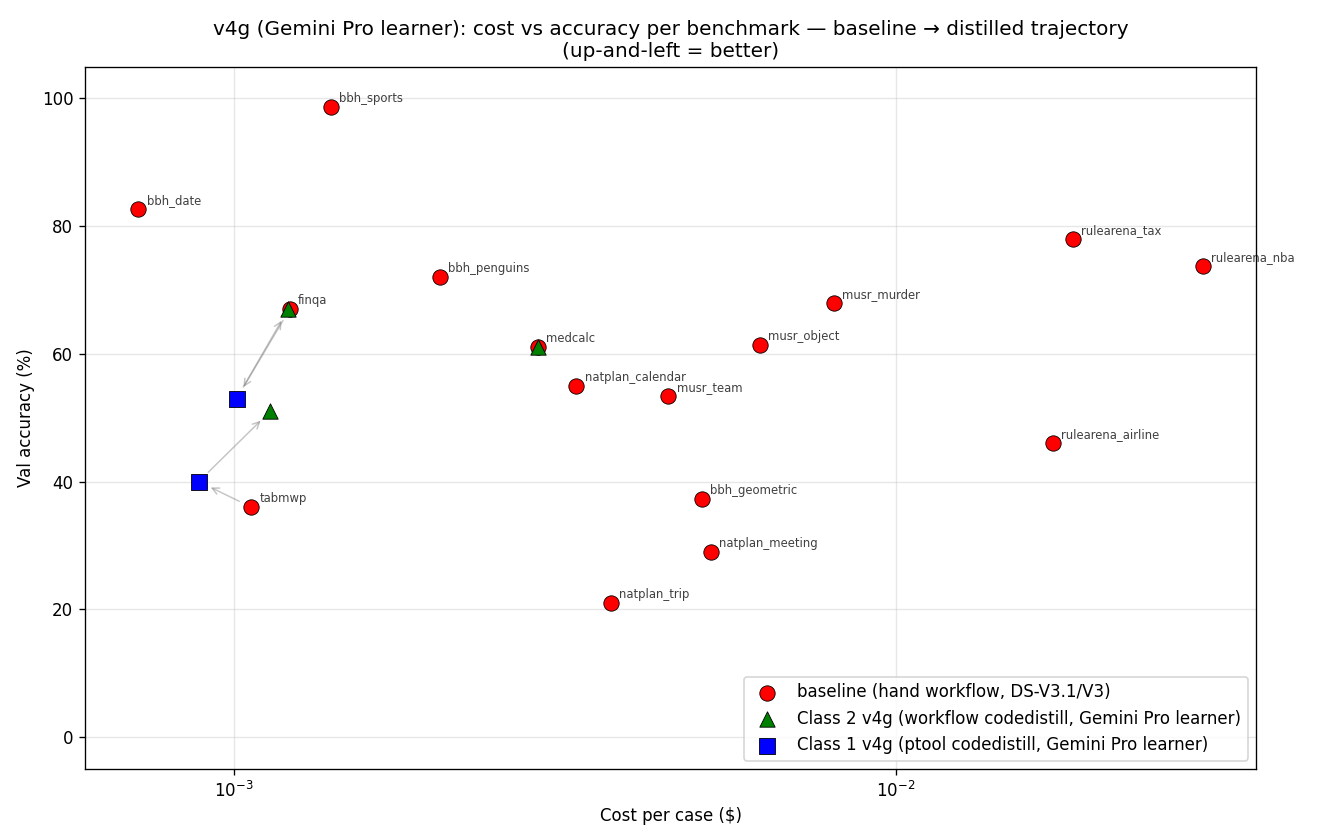
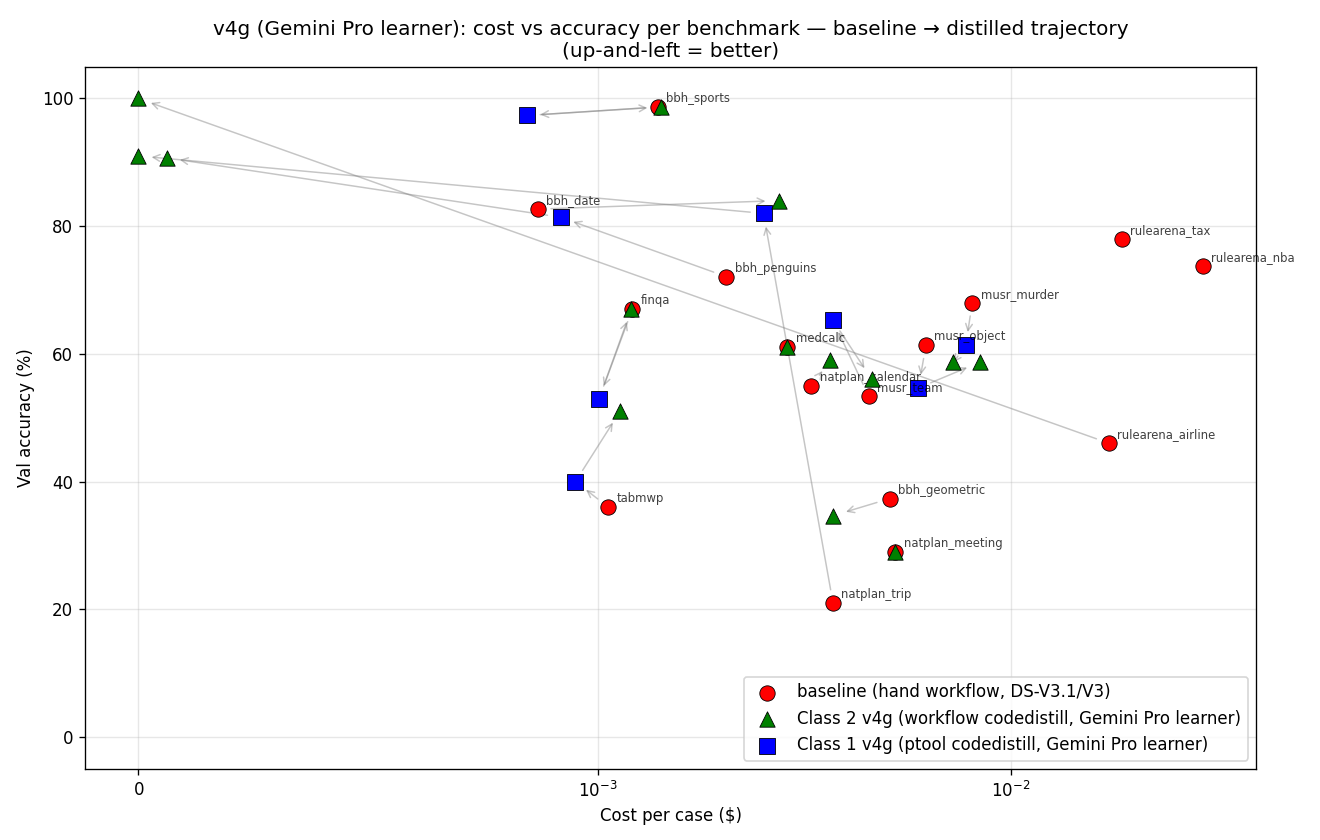
v4g doc: keep only plot1, fix glob bug that lost most data points
Glob in plot_v4g_same_style.py was *.<pre>_full_<method>v4g* — but actual
filenames are e.g. 20260501.025251.natplan_calendar_val_full_class2v4g
where the char before <pre> is `_` not `.`. Fixed to *<pre>_full_*.

Also added BBH dual-prefix lookup: BBH baselines were recorded under
expt_name like sports_understanding_val_full_baseline (long form),
but v4g vals were recorded under bbh_sports_val_full_class2v4g (short
form). Both prefixes now tried.

Result: plot1_v4g_cost_vs_acc.png now has ~36 points across 16 benchmarks
(was ~21 before, missing most c1/c2 markers). Per-bench coverage:
- 3 points: trip / 3 musr / 4 bbh / finqa / tabmwp (10 benches)
- 2 points: calendar / meeting / geometric / date / medcalc / airline (6)
- 1 point: rulearena_nba / rulearena_tax (no c1, no c2)

Removed the 6 other v4g plots per user request — only Plot 1 stays.

diff --git a/docs/code_distillation_results_v2_gemini.md b/docs/code_distillation_results_v2_gemini.md
@@ -48,51 +48,14 @@ that passed Gemini's c1_v4g gate was `build_trip_plan` — which lives in
 
 ---
 
-## Plots — accuracy (3 plots, same style as v4 doc)
+## Plot — Cost vs accuracy (v4g)
 
-### Plot 1 (v4g) — Cost vs accuracy
 ![](plots/plot1_v4g_cost_vs_acc.png)
 
-X = USD cost per case (symlog). Y = val accuracy. 3 points per benchmark
-connected by gray arrows: ● baseline, ■ c1_v4g, ▲ c2_v4g. Up-and-left =
-better. Same layout as `plot1_cost_vs_acc.png` in the Opus doc, with
-v4g data.
-
-### Plot 2A (v4g) — ptool replacement effect (Class 1)
-![](plots/plot2a_v4g_ptool_replacement.png)
-
-X = baseline acc, Y = `c1_v4g` acc (Gemini-distilled ptool inside hand
-workflow). Diagonal = parity. Above diagonal = ptool distillation helped.
-
-### Plot 2B (v4g) — workflow replacement effect (Class 2)
-![](plots/plot2b_v4g_workflow_replacement.png)
-
-X = baseline acc, Y = `c2_v4g` acc (Gemini-distilled top-level workflow,
-hand ptools as backoff). Above diagonal = workflow distillation helped.
-
----
-
-## Plots — cost (4 plots: ptool/workflow × Opus/Gemini)
-
-Below diagonal in each = cost reduced vs baseline. Both axes symlog
-(per-case USD).
-
-### Plot 2A (v4) — Class 1 cost reduction (Opus learner)
-![](plots/plot2a_v4_cost_ptool_replacement.png)
-
-### Plot 2A (v4g) — Class 1 cost reduction (Gemini learner)
-![](plots/plot2a_v4g_cost_ptool_replacement.png)
-
-### Plot 2B (v4) — Class 2 cost reduction (Opus learner)
-![](plots/plot2b_v4_cost_workflow_replacement.png)
-
-### Plot 2B (v4g) — Class 2 cost reduction (Gemini learner)
-![](plots/plot2b_v4g_cost_workflow_replacement.png)
-
-Both Opus and Gemini achieve **near-zero cost** on Class 2 for benchmarks
-where the generated workflow uses pure-Python (rulearena_airline/tax/nba,
-geometric, calendar going from $0.005-0.029 → $0). Gemini's geometric
-class 2 stays at low cost but loses accuracy (35% vs Opus 100%).
+X = USD cost per case (symlog). Y = val accuracy. Up to 3 points per
+benchmark connected by gray arrows: ● baseline, ■ c1_v4g, ▲ c2_v4g.
+Up-and-left = better. Same layout as `plot1_cost_vs_acc.png` in the
+Opus doc, with v4g data.
 
 ---
 